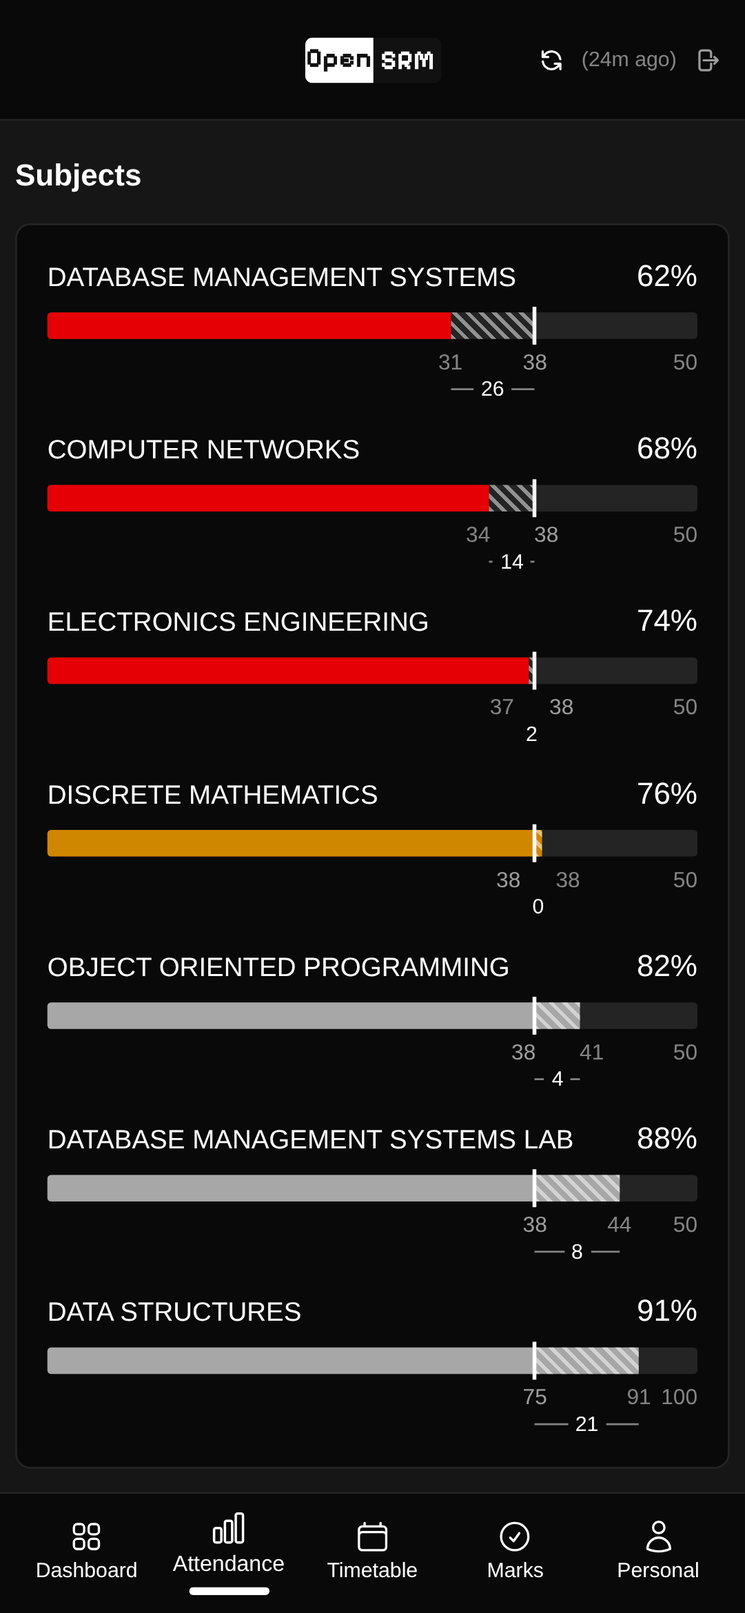
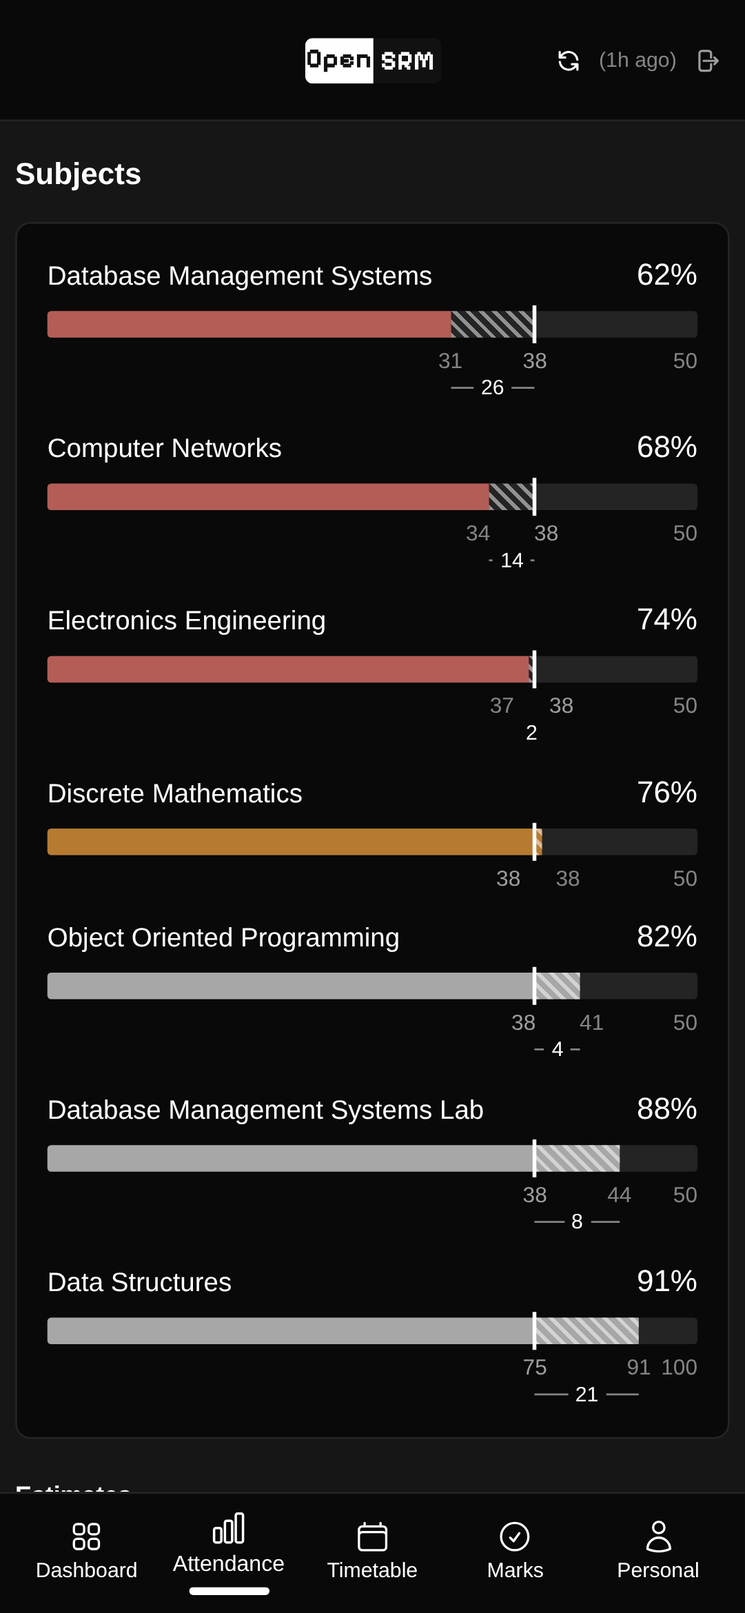
refactor(ui): attention review — faint tints, Title Case, quieter timetable
Review responses (all verified on a live server at 393 and 1280):
- Faint bar tints: mz--red/warn and tt-riskbar/hero rims now use the
  approved mockup's oklch values (58% 0.115 25 / 63% 0.115 68) instead of
  full-saturation --color-error/--color-warning — fills stopped asking
  for attention. Soon chip de-accented to a base-content mix.
- Title Case subject names (_title_case, render-time only; ALL-CAPS portal
  names transform, custom mixed-case untouched, join keys unchanged) on
  the attendance tab, Estimates, absences labels, and the timetable.
- Connector line hides when its action count is 0 (a lone 0 on a hairline
  read as a bug; the orange fill already carries zero-margin).
- Absences card month-grouped under quiet .qlabel subheads (was a dry
  flat list); rows stay date-hours only.
- Desktop (>=768px): meter rows go two-column — horizontal space was idle.
- Timetable: shape glyph removed (rim is the sole can-be-missed indicator,
  bare number stays as data); 'Now' chip removed (the hero says it).
- Hero restyled: no dot, no badge, no colored chrome — quiet card,
  'Now . ends HH:MM' at /50, Title-Case subject, one loud object (the
  22px stat); hue only on the faint left rim when the stat deviates.
Tests: attendance view suite ALL PASS (grouped-absences contract + new
title-case checks), verify76 71/71, ruff clean, test_sw 7/7, test_xss 9/9,
test_navbar 18/18, exams/marks/tt-history/login unit suites ok. DUT probe:
[…]

diff --git a/app/static/timetable.css b/app/static/timetable.css
@@ -1,21 +1,16 @@
 /* Timetable custom styles — themed with daisyUI tokens */
 .tt-wrap{background:var(--color-base-200);border:1px solid var(--color-base-300);border-radius:8px;padding:16px}
-.tt-hero{display:flex;align-items:center;gap:12px;padding:12px 14px;border-radius:6px;background:var(--color-base-300);margin-bottom:14px;border-left:3px solid var(--color-base-300)}
+/* restyled per review R2: no dot, no badge; ONE loud object = the 22px stat;
+   hue ONLY on the faint left rim when the stat is a deviation */
+.tt-hero{padding:12px 14px;border-radius:6px;background:var(--color-base-200);margin-bottom:14px;border:1px solid var(--color-base-300);border-left:3px solid var(--color-base-300)}
 .tt-hero strong{display:block;font-size:13.5px;font-weight:600}
 .tt-hero-sub,.tt-hero-loc{font-size:11.5px;color:var(--color-base-content);opacity:0.5}
-.tt-hero--now{border-left-color:var(--color-success)} .tt-hero--next{border-left-color:var(--color-success)}
-.tt-hero--break{border-left-color:var(--color-warning)}
-/* attendance glance (spec §1.B): one edge, one meaning — when the hero shows a
-   skip stat its edge carries the RISK state, not the temporal now-tint */
-.tt-hero--risk-warn{border-left-color:var(--color-warning)}
-.tt-hero--risk-danger{border-left-color:var(--color-error)}
-.tt-hero-dot--risk-warn{background:var(--color-warning)}
-.tt-hero-dot--risk-danger{background:var(--color-error)}
+.tt-hero-sub{margin-bottom:3px}
+.tt-hero--risk-warn{border-left-color:oklch(63% 0.115 68)}
+.tt-hero--risk-danger{border-left-color:oklch(58% 0.115 25)}
+.tt-hero--break{border-left-color:oklch(63% 0.115 68)}
 .tt-hero-num{display:inline-block;margin-right:6px;font-size:22px;font-weight:700;line-height:1;vertical-align:-2px;font-variant-numeric:tabular-nums;color:var(--color-base-content)}
-.tt-hero-sig{margin-top:4px;font-size:12.5px;color:color-mix(in oklab, var(--color-base-content) 60%, transparent)}
-.tt-hero-dot{width:8px;height:8px;border-radius:50%;flex:0 0 auto}
-.tt-hero-dot--now{background:var(--color-success)} .tt-hero-dot--next{background:var(--color-accent)}
-.tt-hero-dot--break{background:var(--color-warning)} .tt-hero-dot--off{background:var(--color-base-content);opacity:0.5}
+.tt-hero-sig{margin-top:5px;font-size:12.5px;color:color-mix(in oklab, var(--color-base-content) 60%, transparent)}
 .tt-radio{position:absolute;opacity:0;width:1px;height:1px;pointer-events:none}
 .tt-tabbar{display:flex;gap:6px;margin-bottom:12px;flex-wrap:wrap}
 .tt-tabbar label{padding:6px 14px;border-radius:999px;background:var(--color-base-300);color:var(--color-base-content);opacity:0.7;font-size:12.5px;cursor:pointer;position:relative}
@@ -49,8 +44,8 @@
 .tt-riskbar{position:absolute;left:0;top:0;bottom:0;width:2px;border-radius:2px;
             /* neutral baseline must be visible; a ladder-step alpha, still no hue */
             background:color-mix(in oklab, var(--color-base-content) 50%, transparent)}
-.tt-riskbar--warn{background:var(--color-warning)}
-.tt-riskbar--danger{background:var(--color-error)}
+.tt-riskbar--warn{background:oklch(63% 0.115 68)}
+.tt-riskbar--danger{background:oklch(58% 0.115 25)}
 .tt-sig{margin-left:auto;flex:0 0 auto;width:104px;display:flex;align-items:center;gap:6px;white-space:nowrap;
         font-family:monospace;font-size:11px;color:color-mix(in oklab, var(--color-base-content) 60%, transparent)}
 .tt-sig svg{width:14px;height:14px;flex:0 0 auto}
@@ -58,7 +53,7 @@
 .tt-sig--danger svg{color:var(--color-error)}
 .tt-sig--none{opacity:.5}
 .tt-badge{font-size:10.5px;padding:2px 9px;border-radius:999px;background:var(--color-success);color:var(--color-accent-content);font-weight:600}
-.tt-badge--soon{background:var(--color-accent);color:var(--color-accent-content)}
+.tt-badge--soon{background:color-mix(in oklab, var(--color-base-content) 14%, transparent);color:color-mix(in oklab, var(--color-base-content) 70%, transparent)}
 .tt-divider{font-size:11px;color:var(--color-base-content);opacity:0.5;text-align:center;padding:4px 0}
 .tt-editor-header{display:flex;justify-content:space-between;align-items:center;flex-wrap:wrap;gap:8px;margin-bottom:12px}
 .tt-editor-actions{display:flex;gap:8px;flex-wrap:wrap}
@@ -101,12 +96,13 @@
 .mname{flex:1 1 auto;min-w:0;font-size:14px;overflow:hidden;text-overflow:ellipsis;white-space:nowrap}
 .mpct{flex:0 0 auto;font-size:16px;font-weight:500;font-variant-numeric:tabular-nums;color:var(--color-base-content)}
 .mrows{display:flex;flex-direction:column;gap:14px}
+@media (min-width:768px){.mrows{display:grid;grid-template-columns:1fr 1fr;gap:16px 28px}}
 /* flat track; faint status tint on the FILL only — red = below 75,
    orange(warn) = pct ≥ 75 AND skip-now == 0, gray = comfortable */
 .meter{position:relative;height:14px;border-radius:2px;background:var(--color-base-300);margin-top:6px}
 .mz{position:absolute;left:0;top:0;bottom:0;background:color-mix(in oklab, var(--color-base-content) 60%, transparent);border-radius:2px 0 0 2px}
-.mz--red{background:var(--color-error)}
-.mz--warn{background:var(--color-warning)}
+.mz--red{background:oklch(58% 0.115 25)}
+.mz--warn{background:oklch(63% 0.115 68)}
 .mtick{position:absolute;left:75%;top:-3px;bottom:-3px;width:2px;margin-left:-1px;background:var(--color-base-content)}
 /* hatched segment = the gap between current fill and the 75% tick (either side) */
 .mhatch{position:absolute;top:0;bottom:0;background:repeating-linear-gradient(45deg,color-mix(in oklab, var(--color-base-content) 50%, transparent) 0 2px,transparent 2px 5px);pointer-events:none}
@@ -130,6 +126,7 @@
 .qgrid .qhead:first-child{text-align:left}
 .qgrid .qnum{text-align:right;font-variant-numeric:tabular-nums;color:color-mix(in oklab, var(--color-base-content) 60%, transparent)}
 .qlist{display:flex;flex-direction:column;gap:9px;font-size:12.5px}
+.qlabel{font-size:11.5px;font-weight:600;color:var(--color-base-content);opacity:0.5;margin:10px 0 2px}.qlabel:first-of-type{margin-top:0}
 .qarow{display:flex;align-items:baseline;gap:10px}
 .qdate{flex:0 0 58px;color:color-mix(in oklab, var(--color-base-content) 60%, transparent);font-variant-numeric:tabular-nums}
 .qhrs{flex:0 0 auto;color:color-mix(in oklab, var(--color-base-content) 60%, transparent);font-variant-numeric:tabular-nums}

diff --git a/app/templates/dashboard.html b/app/templates/dashboard.html
@@ -249,7 +249,8 @@
             <i class="mtick"></i>
           </div>
           <div class="pnums"><span class="pn pn-now" style="left:{{ fill|round(2) }}%">{{ c.attended }}</span><span class="pn pn-75" style="left:75%">{{ c.t75 }}</span><span class="pn pn-tot">{{ c.max_hours }}</span></div>
-          <div class="pconn"><i style="left:{{ (fill if fill < 75 else 75)|round(2) }}%;width:{{ hatch_w }}%"></i><span style="left:{{ ((fill + 75) / 2)|round(2) }}%">{{ c.attend_now if c.attend_now is not none else c.skip_now }}</span></div>
+          {% set conn = c.attend_now if c.attend_now is not none else c.skip_now %}
+          {% if conn %}<div class="pconn"><i style="left:{{ (fill if fill < 75 else 75)|round(2) }}%;width:{{ hatch_w }}%"></i><span style="left:{{ ((fill + 75) / 2)|round(2) }}%">{{ conn }}</span></div>{% endif %}
         </div>
       {% endif %}
       {% endfor %}
@@ -276,11 +277,14 @@
     {% if absences %}
     <div class="att-h">Absences</div>
     <div class="bg-base-200 border border-base-300 rounded-box p-4 mb-5">
+      {% for g in absences %}
+      <div class="qlabel">{{ g.label }}</div>
       <div class="qlist">
-        {% for a in absences %}
+        {% for a in g.rows %}
         <div class="qarow"><span class="qdate">{{ a.date }}</span><span class="qhrs">{{ a.hours }}h</span></div>
         {% endfor %}
       </div>
+      {% endfor %}
     </div>
     {% endif %}
 

diff --git a/app/app.py b/app/app.py
@@ -1229,22 +1229,32 @@ def _weekly_slots(group_key):
     return out
 
 def _absences_view(daily):
-    """Absences card rows: `date · hours` ONLY — no subject column [R5]
-    (daily_absent rows carry none; deriving one from the timetable would be a lie)."""
+    """Absences card (review R4): month-grouped; each row is `date · hours` ONLY —
+    no subject column [R5] (daily_absent rows carry none; deriving one would be a lie)."""
     out = []
-    for _label, rows in (daily or {}).items():
+    for label, rows in (daily or {}).items():
+        disp_rows = []
         for r in rows or []:
             raw = str(r.get("date", ""))
             try:
                 disp = datetime.strptime(raw, "%d-%m-%Y").strftime("%d %b")
             except ValueError:
                 disp = raw  # unknown shape: show it raw rather than hide the absence
-            out.append({"date": disp, "hours": r.get("hours", "")})
+            disp_rows.append({"date": disp, "hours": r.get("hours", "")})
+        if disp_rows:
+            out.append({"label": _title_case(str(label).replace(" / ", " ")), "rows": disp_rows})
     return out
 
 def _norm_subject(s):
     """Join key: upper / strip / squash whitespace (spec §4.3)."""
     return " ".join(str(s or "").upper().split())
+
+def _title_case(s):
+    """Display only (review R2): portal names arrive ALL CAPS -> Title Case.
+    No-op on mixed-case strings (custom timetable names keep their casing);
+    join keys still go through _norm_subject, so casing is render-time only."""
+    s = str(s or "")
+    return s.title() if s.isupper() else s
 
 def _attendance_index(courses):
     """spec §4 join index built in index(): code-exact map + normalized-name fallback map."""
@@ -1278,7 +1288,7 @@ def _course_view(c):
     absent = _safe_int(c.get("absent"))
     pct = min(100.0, round((attended / max_hours) * 100, 1)) if max_hours > 0 else 0.0
     skip, attend = _bunk_counts(attended, max_hours)
-    return {"code": c.get("code", ""), "description": c.get("description", ""),
+    return {"code": c.get("code", ""), "description": _title_case(c.get("description", "")),
             "max_hours": max_hours, "attended": attended, "absent": absent,
             "pct": pct, "status": _status_for_pct(pct), "bunk_line": _bunk_line(attended, max_hours),
             # meter-row fields (spec §1.1): display 0dp, fill EXACT A/C [F12],
@@ -1583,37 +1593,33 @@ def timetable_html(group_key, attendance=None):
     hero_status = _now_next_from_slots(today, today_slots)
     # Hero HTML
     if hero_status is None or hero_status["kind"] == "done":
-        hero = ("<div class=\"tt-hero tt-hero--done\"><span class=\"tt-hero-dot tt-hero-dot--off\"></span>"
-                "<div><strong>Done for today</strong><div class=\"tt-hero-sub\">No more classes</div></div></div>")
+        hero = ("<div class=\"tt-hero tt-hero--done\"><strong>Done for today</strong>"
+                "<div class=\"tt-hero-sub\">No more classes</div></div>")
     elif hero_status["kind"] == "break":
-        hero = ("<div class=\"tt-hero tt-hero--break\"><span class=\"tt-hero-dot tt-hero-dot--break\"></span>"
-                "<div><strong>{label}</strong><div class=\"tt-hero-sub\">Until {until}</div></div></div>").format(**hero_status)
+        hero = ("<div class=\"tt-hero tt-hero--break\"><strong>{label}</strong>"
+                "<div class=\"tt-hero-sub\">Until {until}</div></div>").format(**hero_status)
     elif hero_status["kind"] == "current":
         # today's-slot hero: when the current class carries a skip stat, the stat is
         # the loud object (22px number) and the hero edge takes the RISK colour, not
         # the temporal now-tint (spec §1.B) — one edge, one meaning.
-        hero = ("<div class=\"tt-hero tt-hero--now{riskcls}\"><span class=\"tt-hero-dot{dotcls}\"></span>"
-                "<div><div class=\"tt-hero-sub\">Now — ends {until}</div>"
-                "<strong>{code} \u2014 {name}</strong>{sig}"
-                "<div class=\"tt-hero-loc\">{loc}</div></div></div>").format(
+        hero = ("<div class=\"tt-hero tt-hero--now{riskcls}\">"
+                "<div class=\"tt-hero-sub\">Now \u00b7 ends {until}</div>"
+                "<strong>{code} \u2014 {name}</strong>{sig}</div>").format(
+            # review R2: no dot, no badge; hue only on the faint left rim = deviation
             riskcls=" tt-hero--risk-danger" if (sig_txt := _tt_att_sig(hero_status.get("_att")) if "_att" in hero_status else None) and sig_txt["cls"] == "danger"
                    else (" tt-hero--risk-warn" if sig_txt and sig_txt["cls"] == "warn" else ""),
-            dotcls=" tt-hero-dot--risk-danger" if sig_txt and sig_txt["cls"] == "danger"
-                   else (" tt-hero-dot--risk-warn" if sig_txt and sig_txt["cls"] == "warn" else " tt-hero-dot--now"),
-            code=hero_status["code"], name=hero_status["name"], until=hero_status["until"],
-            loc=hero_status.get("loc", ""),
+            code=hero_status["code"], name=_title_case(hero_status["name"]), until=hero_status["until"],
             sig=("<div class=\"tt-hero-sig\"><span class=\"tt-hero-num\">{num}</span>{txt}</div>"
                  .format(num=sig_txt["num"], txt="classes in a row to hold 75%" if sig_txt["cls"] == "danger"
                          else "skippable and still hold 75%" if sig_txt["cls"] == "ok"
                          else "left — one miss drops below 75%") if sig_txt else ""))
     elif hero_status["kind"] == "next":
-        hero = ("<div class=\"tt-hero tt-hero--next\"><span class=\"tt-hero-dot tt-hero-dot--next\"></span>"
-                "<div><strong>{code} \u2014 {name}</strong>"
+        hero = ("<div class=\"tt-hero tt-hero--next\"><strong>{code} \u2014 {name}</strong>"
                 "<div class=\"tt-hero-sub\">Starts at {at} (in {in_mins}m)</div>"
-                "<div class=\"tt-hero-loc\">{loc}</div></div></div>").format(**hero_status)
+                "<div class=\"tt-hero-loc\">{loc}</div></div>").format(
+            **{**hero_status, "name": _title_case(hero_status["name"])})
     else:
-        hero = ("<div class=\"tt-hero tt-hero--off\"><span class=\"tt-hero-dot tt-hero-dot--off\"></span>"
-                "<div><strong>No classes today</strong></div></div>")
+        hero = ("<div class=\"tt-hero tt-hero--off\"><strong>No classes today</strong></div>")
     # Day tabs + panels
     default_day = today if today in DAY_ORDER else "Monday"
     radios = "".join("<input type=radio name=ttday id=day-{0} class=tt-radio{1}>".format(d, " checked" if d == default_day else "") for d in DAY_ORDER)
@@ -1634,7 +1640,7 @@ def timetable_html(group_key, attendance=None):
             sl = day_slots.get(d, {}).get(s["period"])
             if not sl:
                 continue
-            code, name, loc = sl["code"], sl["name"], sl.get("location", "")
+            code, name, loc = sl["code"], _title_case(sl["name"]), sl.get("location", "")
             now_mins = datetime.now().hour * 60 + datetime.now().minute
             sm = int(s["start"].split(":")[0])*60 + int(s["start"].split(":")[1])
             em = int(s["end"].split(":")[0])*60 + int(s["end"].split(":")[1])
@@ -1644,22 +1650,18 @@ def timetable_html(group_key, attendance=None):
             elif d == today and now_mins < sm and (sm - now_mins) <= 120:
                 hl = "upcoming"
             cls = " tt-row--" + hl if hl else ""
-            badge = ""
-            if hl == "current": badge = "<span class=tt-badge>Now</span>"
-            elif hl == "upcoming": badge = "<span class=tt-badge tt-badge--soon>Soon</span>"
+            # review R6/R9: no Now badge (the hero already says it); Soon stays
+            badge = "<span class=tt-badge tt-badge--soon>Soon</span>" if hl == "upcoming" else ""
             loc_html = "<span class=tt-loc>{0}</span>".format(loc) if loc else ""
-            # attendance glance (spec §1.B): shape glyph + slim risk edge; neutral
-            # "no data" for unmatched/custom (opacity-50, never a numeric 0%)
+            # attendance glance (review R7): the slim risk rim IS the can-be-missed
+            # indicator; the bare number is data. Neutral "no data" for
+            # unmatched/custom (opacity-50, never a numeric 0%)
             sig = _tt_att_sig(sl.get("_att"))
             riskbar = ('<span class="tt-riskbar{}"></span>'.format(
                 " tt-riskbar--danger" if sig and sig["cls"] == "danger" else " tt-riskbar--warn" if sig and sig["cls"] == "warn" else ""))
-            icon = {"ok": '<path d="M4 10.5l4 4 8-9"/>', "warn": '<path d="M10 3.5l7 13H3z"/>',
-                    "danger": '<path d="M5.5 5.5l9 9M14.5 5.5l-9 9"/>', "none": '<path d="M5 10h10"/>'}[(sig["cls"] if sig else "none")]
-            sig_html = ('<div class="tt-sub">{loc}<span class="tt-sig{cls}">'
-                        '<svg viewBox="0 0 20 20" fill="none" stroke="currentColor" stroke-width="2" '
-                        'stroke-linecap="round" stroke-linejoin="round" aria-hidden="true">{icon}</svg>{text}</span></div>'
+            sig_html = ('<div class="tt-sub">{loc}<span class="tt-sig{cls}">{text}</span></div>'
                         ).format(loc=loc_html, cls=" tt-sig--" + sig["cls"] if sig else " tt-sig--none",
-                                 icon=icon, text=sig["text"] if sig else "no data")
+                                 text=sig["text"] if sig else "no data")
             rows.append('<div class="tt-row{cls}">{risk}'
                         '<div class="tt-time">{start}<small>{end}</small></div>'
                         '<div class="tt-info"><strong>{code}</strong><span class="tt-name">{name}</span></div>'

diff --git a/tests/test_attendance_view.py b/tests/test_attendance_view.py
@@ -18,7 +18,7 @@ sys.path.insert(0, str(Path(__file__).resolve().parent.parent))
 # verify76 forbids test-DB files in the repo root / tests dir; mkdtemp (not a
 # `with` block) so the DB dir outlives this module-level test body
 os.environ["DATA_DIR"] = tempfile.mkdtemp(prefix="osrm-att-view-")
-from app.app import (_absences_view, _attendance_budgets, _attendance_index,
+from app.app import (_absences_view, _attendance_budgets, _attendance_index, _title_case,
                      _bunk_counts, _bunk_line, _course_view, _exam_stop,
                      _join_attendance, _tt_att_sig, _weekdays)
 
@@ -123,10 +123,13 @@ check("sig: neutral for no-join", _tt_att_sig(None) is None)
 
 # 8) absences rows: date · hours ONLY (no subject column) [R5]
 av = _absences_view(json.loads(json.dumps({"SEP / 2026": [{"date": "03-09-2026", "hours": "3"}]})))
-check("absences row keys = date·hours", all(set(r) == {"date", "hours"} for r in av), str(av))
-check("absences date rendered", av and av[0]["date"] == "03 Sep" and av[0]["hours"] == "3", str(av))
+check("absences grouped by month", av and av[0]["label"] == "Sep 2026", str(av))
+check("absences row keys = date·hours", av and all(set(r) == {"date", "hours"} for r in av[0]["rows"]), str(av))
+check("absences date rendered", av and av[0]["rows"][0]["date"] == "03 Sep" and av[0]["rows"][0]["hours"] == "3", str(av))
 check("absences empty → []", _absences_view({}) == [])
-check("absences junk date shown raw", _absences_view({"X": [{"date": "?", "hours": "1"}]})[0]["date"] == "?")
+check("absences junk date shown raw", _absences_view({"X": [{"date": "?", "hours": "1"}]})[0]["rows"][0]["date"] == "?")
+check("title-case: ALL CAPS portal name", _title_case("DATABASE MANAGEMENT SYSTEMS") == "Database Management Systems")
+check("title-case: mixed-case custom untouched", _title_case("CN Lab") == "CN Lab")
 
 print(f"\n{'ALL PASS' if not fails else 'FAILURES: ' + ', '.join(fails)}")
 sys.exit(1 if fails else 0)

diff --git a/DESIGN.md b/DESIGN.md
@@ -411,12 +411,12 @@ Two idioms, both daisyUI 5. **Floating label + leading icon** is the login form:
 ```css
 .tt-row--current  { border-color: var(--color-success);
                     background: color-mix(in oklab, var(--color-success) 8%, transparent); }
-.tt-badge         { background: var(--color-success); color: var(--color-accent-content); }
-.tt-badge--soon   { background: var(--color-accent);  color: var(--color-accent-content); }
+.tt-badge--soon   { background: color-mix(in oklab, var(--color-base-content) 14%, transparent);
+                    color: color-mix(in oklab, var(--color-base-content) 70%, transparent); }
 .tt-time          { color: color-mix(in oklab, var(--color-base-content) 50%, transparent); }
 ```
 
-Meaning map: current class = `success` border + 8% tint + "Now" badge · next/soon = white (`accent`) · selected day pill = `accent` fill with `accent-content` text · break = `warning` · drop target hover = `base-content` border · filled cell = `success` border.
+Meaning map: current class = `success` border + 8% tint (the hero states it — the "Now" chip was removed in the attention review: one state, one indicator) · next/soon = quiet neutral chip (base-content mix — `accent` pulled the eye) · selected day pill = `accent` fill with `accent-content` text · break = `warning` · drop target hover = `base-content` border · filled cell = `success` border.
 
 ### 4.12 End-sem schedule card (dashboard)
 
@@ -515,16 +515,16 @@ Replaces the old status-card grid + overall hero (§4.3/§4.4 are **retired for 
 </div>
 ```
 
-- **Fill tint, FILL only:** `mz--red` = pct < 75 · `mz--warn` = pct ≥ 75 AND skip-now == 0 (orange rule — "one miss costs") · plain `mz` (grayscale) = comfortable. Track stays `--color-base-300` always.
+- **Fill tint, FILL only:** `mz--red` = pct < 75 · `mz--warn` = pct ≥ 75 AND skip-now == 0 (orange rule — "one miss costs") · plain `mz` (grayscale) = comfortable. Track stays `--color-base-300` always. **Values are the faint approved-mockup tints — `oklch(58% 0.115 25)` / `oklch(63% 0.115 68)`** — NOT the `--color-error`/`--color-warning` theme tokens: those are full-saturation and pull the eye (attention review R1; the timetable `.tt-riskbar`/hero rims use the same faint values).
 - **Pinned numbers:** attended @fill%, `ceil(0.75·C)` @75% (38 when C=50), total @right pole. `pnums`/`pconn` alphas are ladder steps only (50%/60% via `color-mix`); the connector's action number is `base-content` (100%) punched out on `base-200`.
-- **Connector line** spans fill↔tick and carries the BARE action count (must-attend below 75, skippable above) — no words under the bar; the aria-label carries the sentence for screen readers (never "X of Y classes").
+- **Connector line** spans fill↔tick and carries the BARE action count (must-attend below 75, skippable above) — no words under the bar; the aria-label carries the sentence for screen readers (never "X of Y classes"). Renders **only when the count > 0** (review R3): a lone "0" on a hairline read as a bug; the orange fill already carries zero-margin.
 - **Nudges** (±6px <9%, ±14px <3%) separate the `pn-now`/`pn-75` labels near the tick; they nudge AWAY from each other (`nudL`/`nud2L` when fill < 75, `nudR`/`nud2R` when fill > 75).
 - **Degrade, never fake:** C=0 → no meter at all (row skipped); w=0 → budgets hidden from Estimates; no exams → Estimates endsem column `--`; unmatched/custom in the timetable → neutral "no data", NEVER a numeric 0%.
 - **CSS lives in `app/static/timetable.css`** under the `/* ── Attendance meter row */` banner — every color a `var(--color-*)` token or `color-mix` ladder step; no badges, no uppercase, no gradients (the hatch is the one sanctioned pattern), one divider style, labels ≤3 words, no sentence over 8 words.
-- **Estimates + Absences cards** (quiet): `.att-h` heading + `.att-n` note ("can skip: 90 working days (excl. Sat/Sun) · till {stop} (day before first endsem)" — dates derived from `_exam_stop`, never hardcoded), a `qgrid` (Subject | 90 days · N left | till D · N left) of semester budgets, and `qlist` absences rows `date · hours` ONLY (no subject column — `daily_absent` carries none). Monthly breakdown is demoted verbatim into a `<details>` under them.
+- **Estimates + Absences cards** (quiet): `.att-h` heading + `.att-n` note ("can skip: 90 working days (excl. Sat/Sun) · till {stop} (day before first endsem)" — dates derived from `_exam_stop`, never hardcoded), a `qgrid` (Subject | 90 days · N left | till D · N left) of semester budgets, and `qlist` absences rows `date · hours` ONLY (no subject column — `daily_absent` carries none), **month-grouped under quiet `.qlabel` subheads** (review R4: the flat list read dry). Monthly breakdown is demoted verbatim into a `<details>` under them.
 - **Attention budget:** the meter row is attention-budget-compliant by construction — grayscale default, hue only on the fill of a deviation, numbers neutral, no aggregate anywhere (no overall %, no overall bunk line, no summed totals).
 
-Timetable glance (same PR): `.tt-sig` 104px shape-glyph line (check = can skip, triangle = no margin, X = must attend; colour reinforces only), a 2px `.tt-riskbar` edge carrying risk (one edge, one meaning — the now-tint yields), and the today's-slot hero gaining a 22px `tt-hero-num` skip stat whose edge/dot take the risk state. Unmatched/custom slots render neutral "no data" at `opacity .5`. The Now/Soon `.tt-badge` is KEPT (§5 attention rules are scoped to the attendance tab).
+Timetable glance (same PR, restyled per attention review R2/R6-R10): the 2px `.tt-riskbar` rim is the **sole can-be-missed indicator** (faint danger/warn tints, same values as the meter fills) and the bare action number in `.tt-sig` is data — the shape glyph was removed (two indicators for one fact). The today's-slot hero is a quiet card: `Now · ends HH:MM` at /50, Title-Case subject, and ONE loud object — the 22px `tt-hero-num` stat; hue appears only on the faint left rim when the stat is a deviation. No dot, no "Now" chip. Unmatched/custom slots render neutral "no data" at `opacity .5`. Subject names are Title-Cased at render (`_title_case`: ALL-CAPS portal names only; custom mixed-case names untouched; join keys still go through `_norm_subject`).
 
 ---
 
